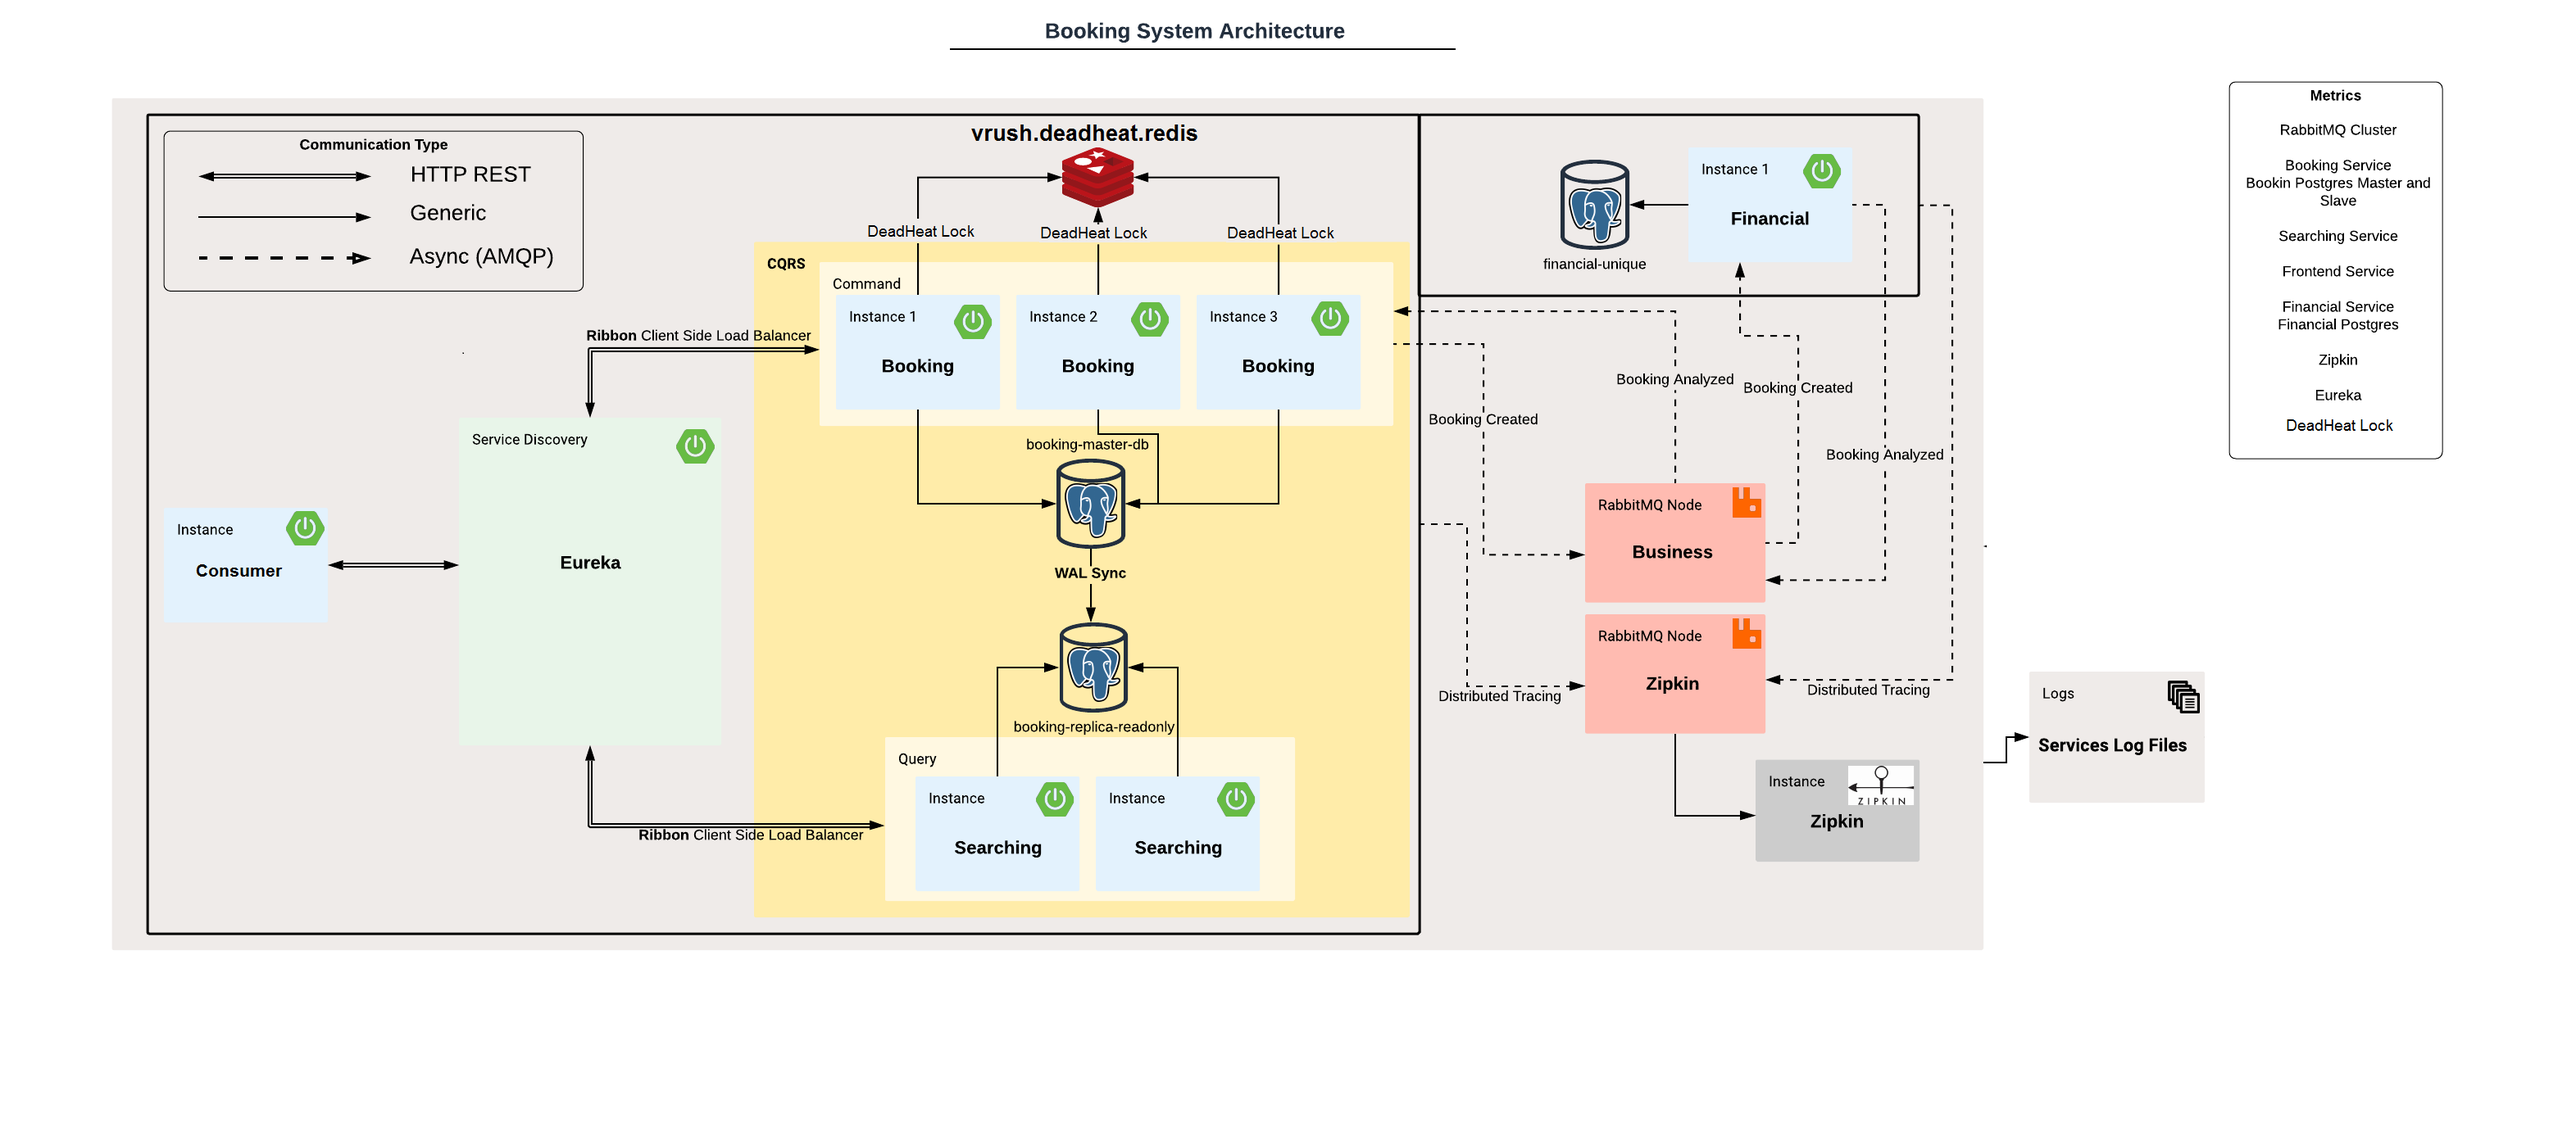
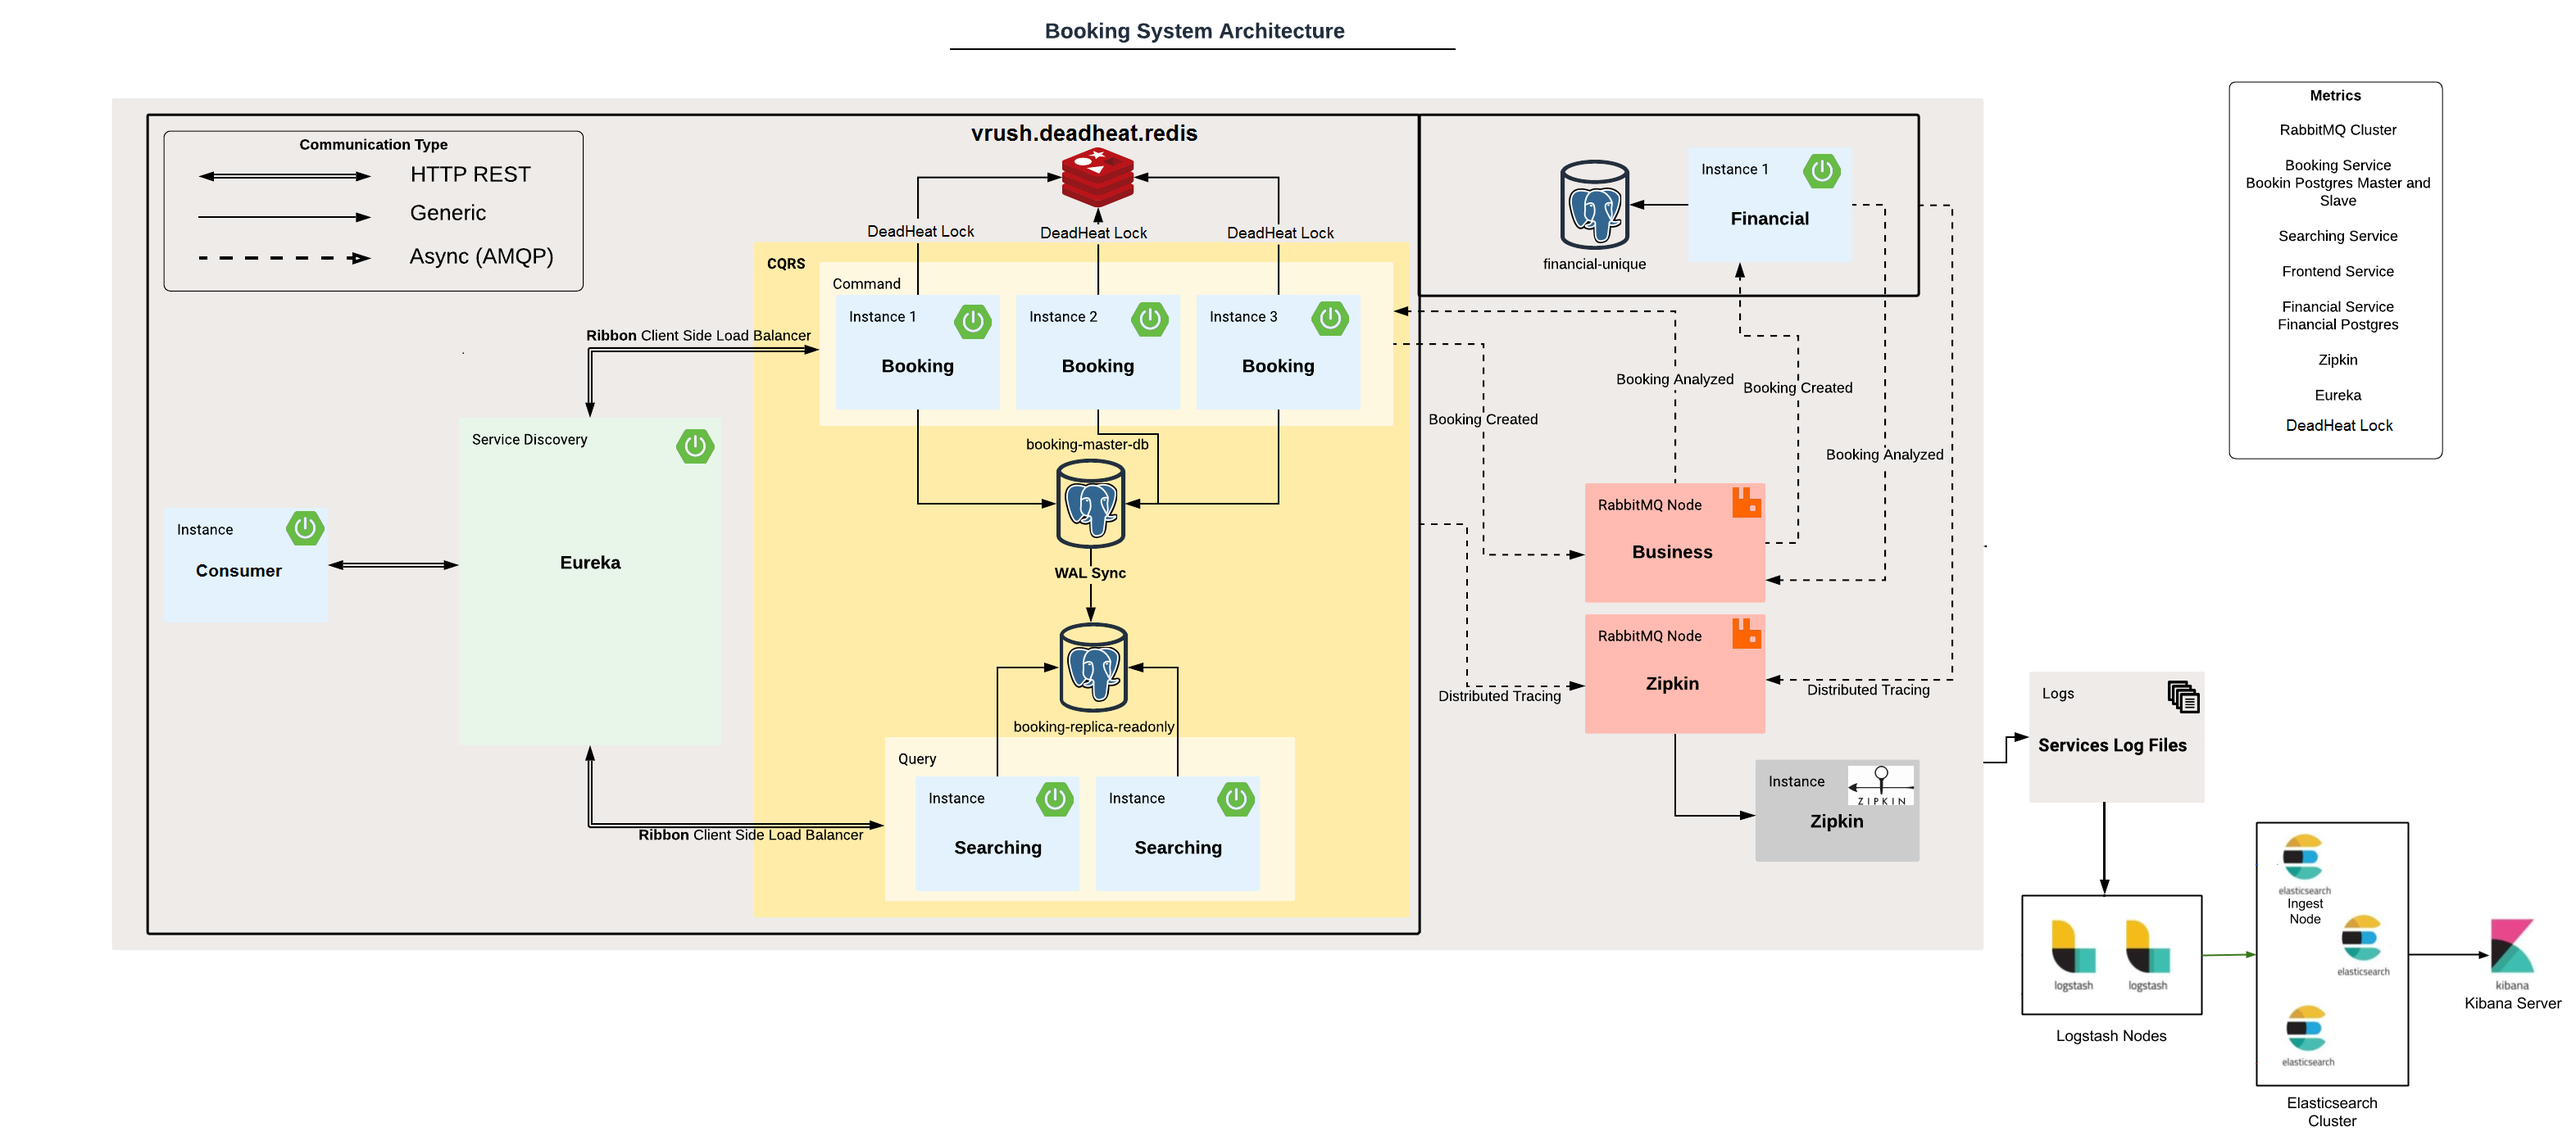
docker command's schell script & readme updation

diff --git a/README.md b/README.md
@@ -24,6 +24,10 @@ This microservices based project demonstrates how multiple services run independ
 
 ## Technology Stack Used
 - **RabbitMQ** as a Message Broker
+- **ElasticSearch** to store and indexes log data
+- **Logstash** to enhance the data and sends it to Elasticsearch
+- **Kibana** to visualize data stored in elasticsearch
+- **FileBeat** as data shippers to elasticsearch
 - **Feign** to create REST Clients
 - **Ribbon** to Client Side Load Balance
 - **Eureka** to a Service Discovery
@@ -33,12 +37,23 @@ This microservices based project demonstrates how multiple services run independ
 - **Postgres** as Database
 - **Splunk** as Log Analysis Platform
 - **Swagger** to create an API documentation
-- **DeadHeat Lock** as a locking mechanism to avoid concurrency issues
+
 
 ## DeadHeat Lock
 Here DeadHeat Lock library is being used which I created before. You can look into that using - [DeadHeat Lock](https://github.com/vrushofficial/deadheat-lock).
 
 Locking mechanism as a usecase in Booking service on save booking to ensure that user not allow for booking with same RoomId(which can be called from any instance of booking service simultaneously).
+
+## Run Application on Docker
+### To build the services
+```./build.sh```
+- Above shell script is containing docker compose build of each service.
+
+### To Start Environment
+```./start.sh```
+- Above shell script is containing docker compose run of each service.
+
+Tip: Run these command and go to take a coffee... or 2...   :)
 
 ## Starting services locally without Docker
 
@@ -53,8 +68,8 @@ I used a thymeleaf template from [Frontend Template - Delux by Colorlib](https:/
 
 |     Application       |     Port          |
 | ------------- | ------------- |
-| Booking Microservice | 8100 |
-| Searching Microservice | 8200 |
+| Booking Microservice | 8100 , 8101, 8102|
+| Searching Microservice | 8200 ,8201|
 | Financial Microservice | 8300 |
 | Consumer Microservice | 8400 |
 | RabbitMQ | 5672, 5673 |
@@ -66,6 +81,10 @@ I used a thymeleaf template from [Frontend Template - Delux by Colorlib](https:/
 | Netflix Eureka | 8761 |
 | Zipkin | 9411 |
 | DeadHeat Lock | 6379 |
+| Logstash | 5044 |
+| Elasticsearch  | 9200 |
+| Kibana | 5601 |
+
 
 
 # That's all. Leave a star if it helped you!
